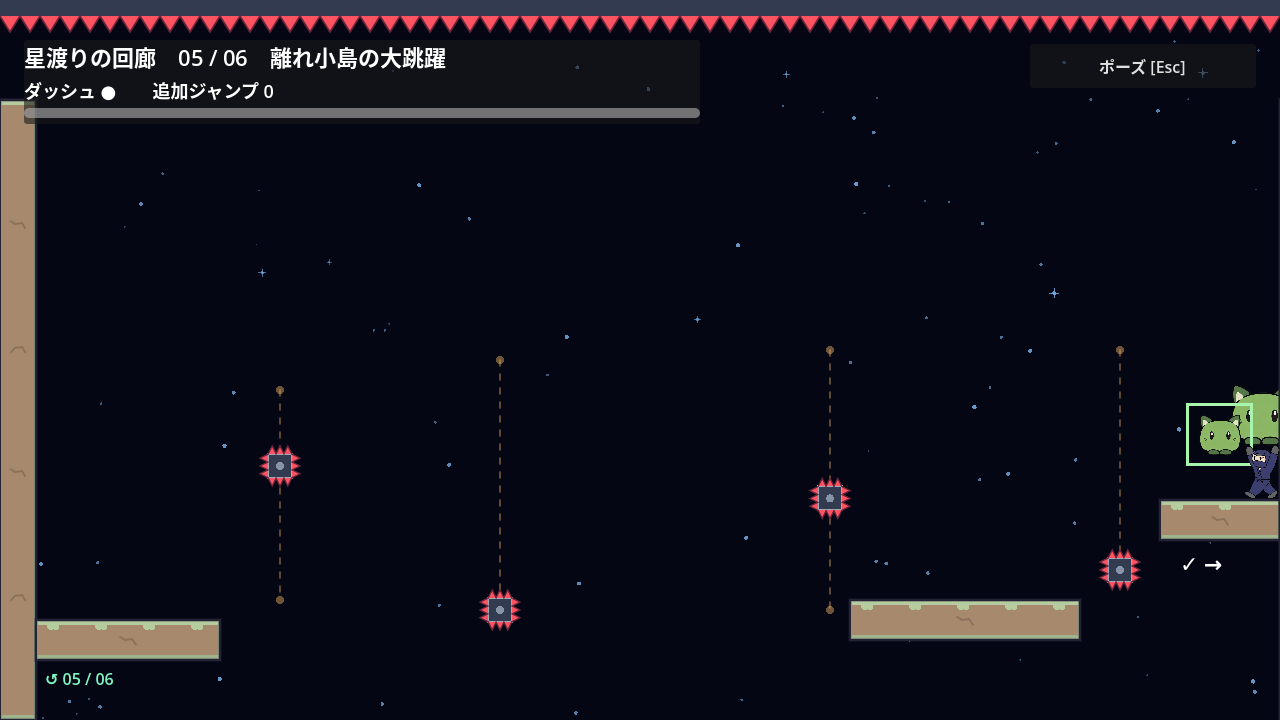
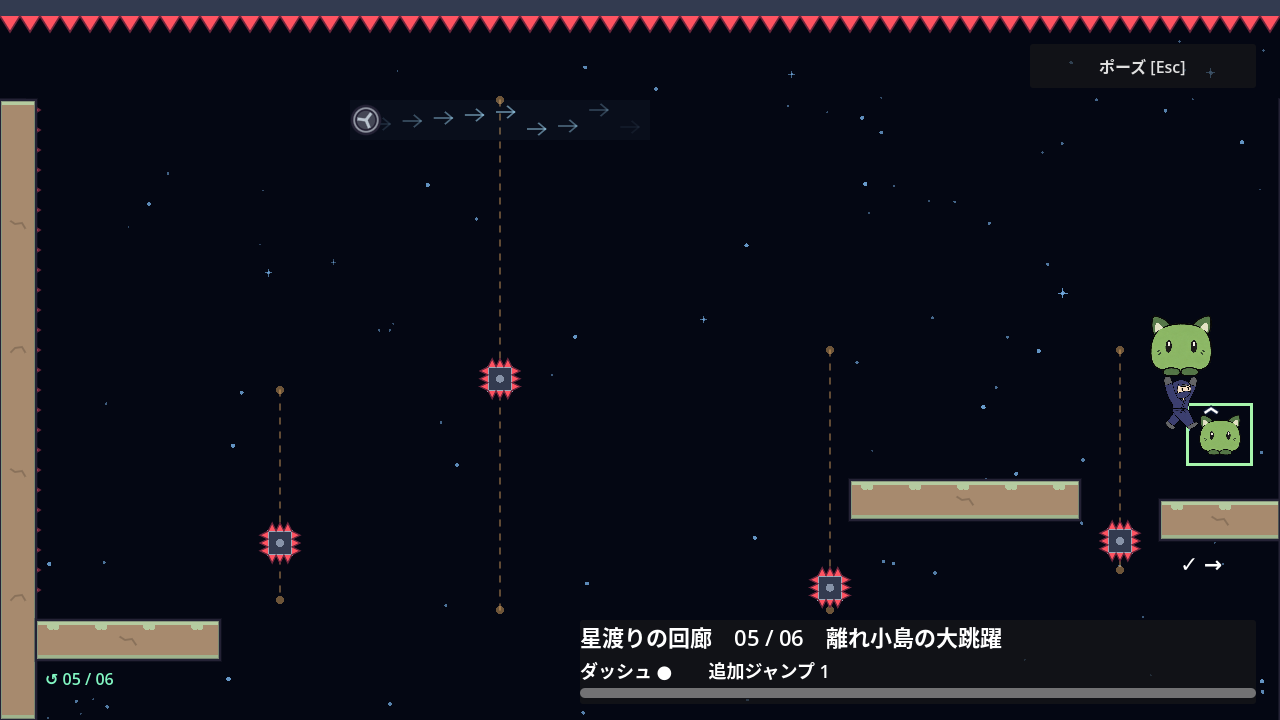
🐛 相棒の背からの遅い踏切を高い横風で防ぐ

diff --git a/README.md b/README.md
@@ -61,7 +61,7 @@ F5で起動すると、宇宙背景の中央に「忍者ぶっとびくん Galax
 
 ## ステージ4：星渡りの回廊
 
-全6面で緑の相棒を持ったまま出口へ運ぶステージです。運搬中は壁登りができないため、壁キックと追加ジャンプを使います。第1室は入口から420px上の広い片面足場へ、相棒の追加ジャンプとダッシュを組み合わせて上がります。第2室は相棒を保持し、縦に続く峡谷を壁キックで上がって広い足場で休みます。この部屋だけカメラが縦に追従します。第5室は630pxの隙間を相棒の追加ジャンプと斜めダッシュで渡り、幅230pxの島で休めます。低い天井・峠の下り・折り返しの第3・4・6室は、ダッシュなしでも攻略できます。画面上端には危険が見える天井トゲを配置しています。部屋移動で復帰地点を更新し、落下・トゲへの接触・R / Startで現在の部屋から再開します。
+全6面で緑の相棒を持ったまま出口へ運ぶステージです。運搬中は壁登りができないため、壁キックと追加ジャンプを使います。第1室は入口から420px上の広い片面足場へ、相棒の追加ジャンプとダッシュを組み合わせて上がります。第2室は相棒を保持し、縦に続く峡谷を壁キックで上がって広い足場で休みます。この部屋だけカメラが縦に追従します。第5室は相棒の追加ジャンプと上ダッシュで高い横風へ入り、630px先の幅230pxの島で休めます。低い天井・峠の下り・折り返しの第3・4・6室は、ダッシュなしでも攻略できます。画面上端には危険が見える天井トゲを配置しています。部屋移動で復帰地点を更新し、落下・トゲへの接触・R / Startで現在の部屋から再開します。
 
 ポーズメニューで操作のヒントを表示できます。配置・操作・テストは [第4ステージの仕様](docs/stage-4.md) を参照してください。
 
